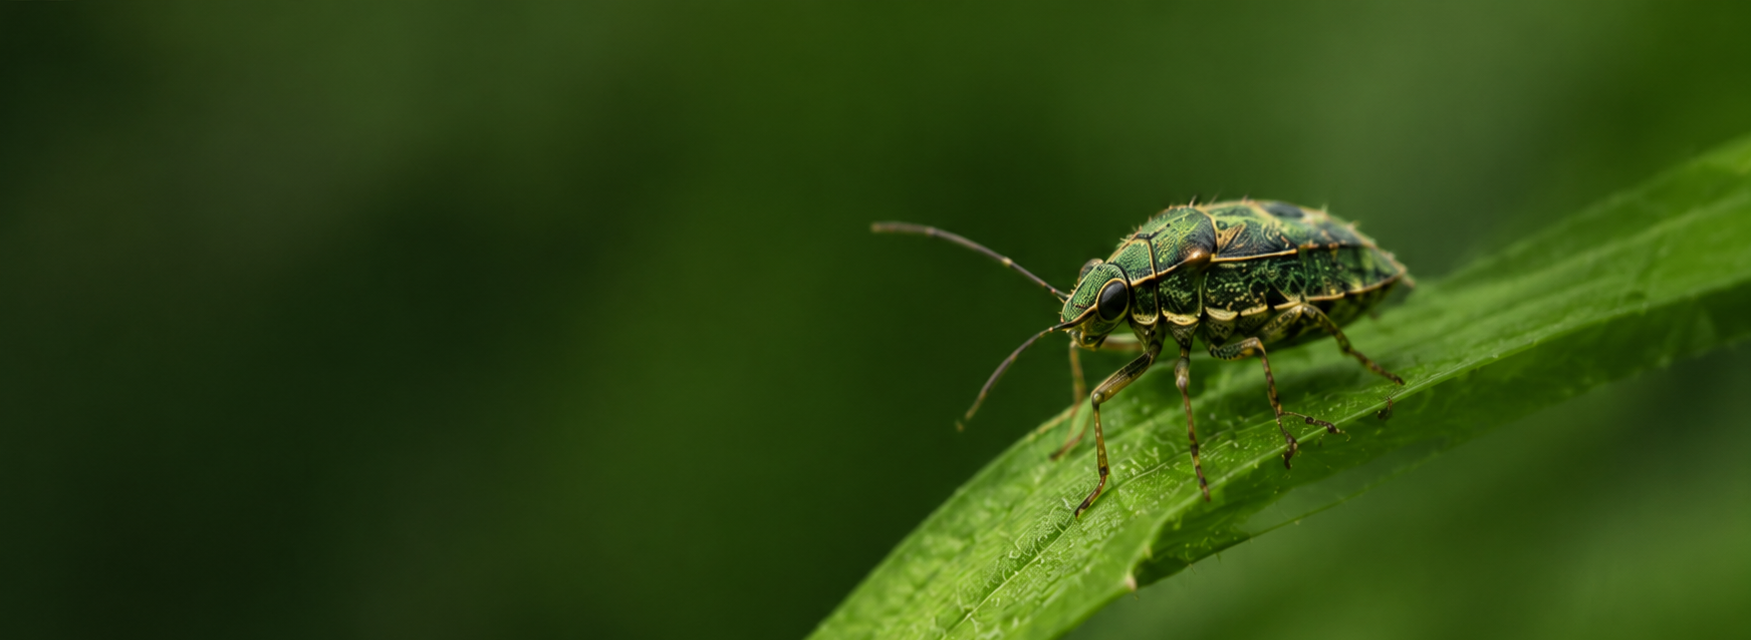
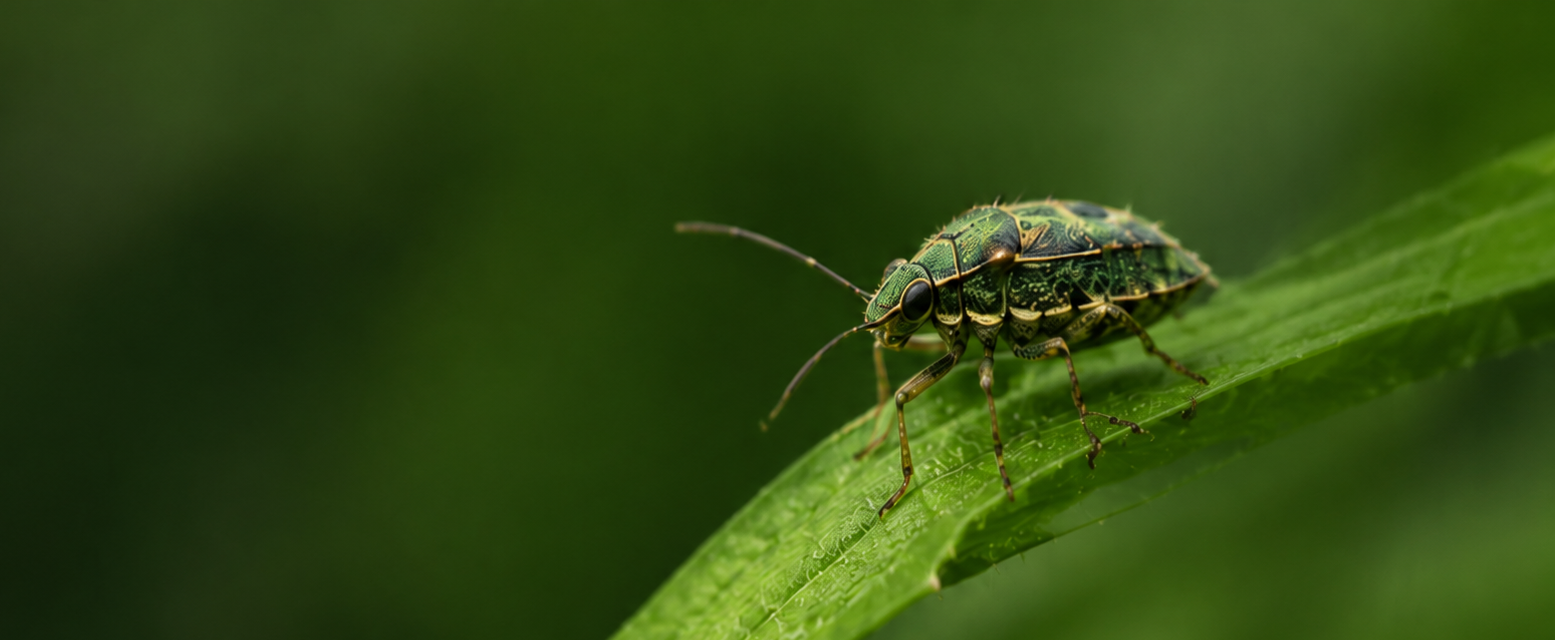
feat: add author paper template PDF and update CallForPapers component for improved layout and styling

diff --git a/src/pages/CallForPapers.jsx b/src/pages/CallForPapers.jsx
@@ -145,15 +145,31 @@ function PageContainer({ children, className = "" }) {
 
 function SectionHeading({ children }) {
   return (
-    <h2 className="flex items-center gap-3 text-[20px] font-[550] leading-tight text-[#123819] sm:text-[21px]">
+    <h2 className="flex items-center gap-3 text-[21px] font-[550] leading-tight text-[#123819] sm:text-[23px]">
       <Leaf className="h-5 w-5 shrink-0 -rotate-12 fill-[#8dbd51]/35 text-[#427a29]" />
       {children}
     </h2>
   );
 }
 
-function DarkButton({ children, to, icon: Icon, className = "" }) {
-  const styles = `group inline-flex min-h-10 items-center justify-center gap-2 rounded-md bg-[#174d1b] px-5 py-2.5 text-[12px] font-[550] text-white shadow-sm transition duration-300 hover:-translate-y-0.5 hover:bg-[#0d3914] hover:shadow-lg focus:outline-none focus:ring-2 focus:ring-[#82ad45] focus:ring-offset-2 ${className}`;
+function DarkButton({
+  children,
+  to,
+  href,
+  download,
+  icon: Icon,
+  className = "",
+}) {
+  const styles = `group inline-flex min-h-10 items-center justify-center gap-2 rounded-md bg-[#174d1b] px-5 py-2.5 text-sm font-[550] text-white shadow-sm transition duration-300 hover:-translate-y-0.5 hover:bg-[#0d3914] hover:shadow-lg focus:outline-none focus:ring-2 focus:ring-[#82ad45] focus:ring-offset-2 ${className}`;
+
+  if (href) {
+    return (
+      <a href={href} download={download} className={styles}>
+        {Icon && <Icon className="h-4 w-4" />}
+        {children}
+      </a>
+    );
+  }
 
   if (to) {
     return (
@@ -179,30 +195,30 @@ export default function CallForPapers() {
     <main className="overflow-hidden bg-white font-sans text-[#203426]">
       {/* Hero */}
       <section
-        className="relative isolate flex min-h-[395px] items-center bg-cover bg-[position:68%_center] sm:min-h-[400px] md:min-h-[450px] md:bg-center"
+        className="relative isolate flex min-h-[390px] items-center bg-cover bg-[position:66%_center] sm:min-h-[400px] md:min-h-[450px] md:bg-center"
         style={{ backgroundImage: `url(${callHeroBg})` }}
       >
-        {/* <div className="absolute inset-0 -z-10 bg-gradient-to-r from-[#082d16]/[0.98] via-[#103c1d]/80 to-[#123c16]/15 sm:via-[#103c1d]/66 lg:via-[#103c1d]/48" /> */}
+        {/* <div className="absolute inset-0 -z-10 bg-gradient-to-r from-[#082d16]/[0.99] via-[#103c1d]/90 to-[#123c16]/55 sm:via-[#103c1d]/76 sm:to-[#123c16]/30 md:via-[#103c1d]/66 md:to-[#123c16]/15 lg:via-[#103c1d]/48 lg:to-transparent" /> */}
 
-        <PageContainer className="relative flex min-h-[520px] items-center py-10 sm:min-h-[440px] lg:min-h-[310px] lg:py-8">
+        <PageContainer className="relative grid min-h-[535px] grid-cols-1 content-center gap-7 py-10 sm:min-h-[500px] sm:py-12 md:min-h-[410px] md:grid-cols-[minmax(0,1fr)_164px] md:items-center md:gap-6 md:py-9 lg:min-h-[310px] lg:grid-cols-[minmax(0,1fr)_190px] lg:gap-8 lg:py-6">
           <motion.div
             initial={{ opacity: 0, x: -28 }}
             animate={{ opacity: 1, x: 0 }}
             transition={{ duration: 0.65, ease: "easeOut" }}
-            className="w-full max-w-[700px] pb-[172px] text-white sm:pb-[150px] lg:pb-0"
+            className="w-full max-w-[660px] text-center text-white md:text-left"
           >
-            <span className="inline-flex rounded-md bg-white/15 px-3 py-1.5 text-[10px] font-[500] uppercase tracking-[0.02em] text-white backdrop-blur-sm sm:text-[11px]">
+            <span className="inline-flex mt-12 sm:mt-4 lg:mt-6 rounded-md bg-white/15 px-3 py-1.5 text-[11px] font-[550] uppercase tracking-[0.02em] text-white backdrop-blur-sm sm:text-[12px]">
               Call for Papers
             </span>
 
-            <h1 className="mt-5 text-[34px] max text-white font-semibold leading-[1.16] tracking-[-0.025em] sm:text-[36px] lg:text-[36px]">
+            <h1 className="mt-5 text-[32px] text-white font-semibold leading-[1.16] tracking-[-0.025em] min-[380px]:text-[35px] sm:text-[40px] md:text-[34px] lg:text-[36px]">
               Share Your Research.
               <br />
               Advance{" "}
               <span className="text-[#acd261]">Entomological Science.</span>
             </h1>
 
-            <p className="mt-4 max-w-[450px] text-[13px] leading-[1.75] text-white/95 sm:text-[14px]">
+            <p className="mx-auto mt-4 max-w-[470px] text-[13px] leading-[1.7] text-white/95 sm:text-[14px] sm:leading-[1.75] md:mx-0 lg:text-[15px]">
               We invite researchers, scientists, academicians and industry
               professionals to contribute their original research and innovative
               ideas to the conference.
@@ -213,22 +229,22 @@ export default function CallForPapers() {
             initial={{ opacity: 0, scale: 0.86 }}
             animate={{ opacity: 1, scale: 1 }}
             transition={{ delay: 0.2, duration: 0.55, ease: "easeOut" }}
-            className="absolute bottom-2 left-1/2 flex h-[158px] w-[158px] -translate-x-1/2 flex-col items-center justify-center rounded-full border-[6px] border-[#a8d36b] bg-[#fbfdf8] px-3 text-center shadow-[0_0_0_3px_rgba(255,255,255,.88)] sm:bottom-8 sm:h-[170px] sm:w-[170px] lg:bottom-auto lg:left-auto lg:right-8  lg:h-[180px] lg:w-[180px] lg:-translate-x-0 lg:-translate-y-1/2 xl:right-10"
+            className="mx-auto flex h-[154px] w-[154px] flex-col items-center justify-center rounded-full border-[6px] border-[#a8d36b] bg-[#fbfdf8] px-3 text-center shadow-[0_0_0_3px_rgba(255,255,255,.88)] sm:h-[164px] sm:w-[164px] md:mx-0 md:justify-self-end lg:h-[180px] lg:w-[180px]"
           >
             <CalendarDays className="mb-1 h-6 w-6 text-[#163d1d]" />
-            <h2 className="text-[12px] font-[550] text-[#143719] sm:text-[13px]">
+            <h2 className="text-[13px] font-[550] text-[#143719] sm:text-sm">
               Important Dates
             </h2>
-            <p className="mt-1 text-[10px] leading-tight text-[#3e4d41] sm:text-[11px]">
+            <p className="mt-2 text-[10px] leading-tight text-[#3e4d41] sm:text-[11px]">
               Abstract Submission
             </p>
-            <p className="mt-0.5 text-[11px] font-[550] text-[#174d1b] sm:text-[12px]">
+            <p className="mt-0.5 text-xs font-[550] text-[#174d1b] sm:text-[13px]">
               31 July 2025
             </p>
             <p className="mt-2 text-[10px] leading-tight text-[#3e4d41] sm:text-[11px]">
               Full Paper Submission
             </p>
-            <p className="mt-0.5 text-[11px] font-[550] text-[#174d1b] sm:text-[12px]">
+            <p className="mt-0.5 text-xs font-[550] text-[#174d1b] sm:text-[13px]">
               30 August 2025
             </p>
           </motion.div>
@@ -243,7 +259,7 @@ export default function CallForPapers() {
               {/* Topics */}
               <motion.section {...fadeUp}>
                 <SectionHeading>Topics of Interest</SectionHeading>
-                <p className="mt-2 text-[14px] leading-6 text-[#2c4732]">
+                <p className="mt-4 text-sm leading-6 text-[#2c4732]">
                   We welcome papers (but not limited to) in the following areas:
                 </p>
 
@@ -283,7 +299,7 @@ export default function CallForPapers() {
                         className="group flex min-h-[132px] flex-col items-center justify-center rounded-lg border border-[#edf1e8] bg-[#f4f7f0] p-5 text-center shadow-sm transition-shadow duration-300 hover:shadow-[0_12px_28px_rgba(25,67,28,.13)]"
                       >
                         <TypeIcon className="h-8 w-8 text-[#194b20] transition-transform duration-300 group-hover:scale-110" />
-                        <h3 className="mt-3 text-[14px] font-[550] text-[#17391c]">
+                        <h3 className="mt-3 text-sm font-[550] text-[#17391c]">
                           {title}
                         </h3>
                         <p className="mt-2 text-[13px] leading-5 text-[#344638]">
@@ -310,8 +326,15 @@ export default function CallForPapers() {
                   ))}
                 </ul>
 
-                <div className="mt-7 flex flex-col items-start gap-4 sm:flex-row sm:items-center">
-                  <DarkButton icon={Download}>Download Templates</DarkButton>
+                <div className="mt-7 flex flex-col items-stretch gap-4 sm:flex-row sm:items-center">
+                  <a
+                    href={`${import.meta.env.BASE_URL}download/entomology-author-paper-template.pdf`}
+                    download="entomology-author-paper-template.pdf"
+                    className="group inline-flex w-full items-center justify-center gap-2 rounded-md bg-[#174d1b] px-5 py-2.5 text-sm font-[550] text-white transition duration-300 hover:-translate-y-0.5 hover:bg-[#0d3914] hover:shadow-lg sm:w-auto"
+                  >
+                    <Download className="h-4 w-4" />
+                    Download Templates
+                  </a>
                   <p className="text-[13px] leading-5 text-[#35483a]">
                     For detailed author instructions, visit the{" "}
                     <Link
@@ -334,7 +357,7 @@ export default function CallForPapers() {
               >
                 <div className="mb-5 flex items-center gap-3">
                   <CalendarDays className="h-6 w-6 text-[#1d5424]" />
-                  <h2 className="text-[18px] font-[550] text-[#153a1b]">
+                  <h2 className="text-lg font-[550] text-[#153a1b]">
                     Important Dates
                   </h2>
                 </div>
@@ -346,7 +369,7 @@ export default function CallForPapers() {
                         <DateIcon className="h-4 w-4" />
                       </span>
                       <div>
-                        <p className="text-[12.5px] leading-4 text-[#4b5d50]">
+                        <p className="text-[12px] leading-4 text-[#4b5d50]">
                           {label}
                         </p>
                         <p className="mt-0.5 text-[13px] font-[550] leading-5 text-[#19451e]">
@@ -362,10 +385,8 @@ export default function CallForPapers() {
                 {...fadeUp}
                 className="rounded-xl bg-gradient-to-br from-[#123f1a] to-[#235b22] p-6 text-white shadow-[0_10px_28px_rgba(14,60,21,.15)] transition-shadow duration-300 hover:shadow-[0_14px_32px_rgba(14,60,21,.25)]"
               >
-                <h2 className="text-[18px] text-white font-[550]">
-                  Why Submit?
-                </h2>
-                <ul className="mt-3 space-y-2">
+                <h2 className="text-lg text-white font-[550]">Why Submit?</h2>
+                <ul className="mt-5 space-y-4">
                   {whySubmit.map((reason) => (
                     <li
                       key={reason}
@@ -384,7 +405,7 @@ export default function CallForPapers() {
               >
                 <div className="flex items-center gap-3">
                   <Send className="h-7 w-7 -rotate-6 text-[#225623]" />
-                  <h2 className="text-[18px] font-[550] text-[#153a1b]">
+                  <h2 className="text-lg font-[550] text-[#153a1b]">
                     Submit Your Paper
                   </h2>
                 </div>
@@ -410,12 +431,12 @@ export default function CallForPapers() {
         <PageContainer>
           <motion.div
             {...fadeUp}
-            className="relative isolate flex min-h-[215px] items-center overflow-hidden rounded-lg bg-[#f5f7ef] bg-cover bg-[position:23%_center] px-5 py-4 shadow-sm sm:min-h-[176px] sm:bg-center sm:px-8 lg:min-h-[164px] lg:px-10"
+            className="relative isolate flex min-h-[290px] items-end overflow-hidden rounded-lg bg-[#f5f7ef] bg-cover bg-[position:16%_top] px-5 py-6 shadow-sm sm:min-h-[190px] sm:items-center sm:bg-center sm:px-8 lg:min-h-[164px] lg:px-10"
             style={{ backgroundImage: `url(${callCtaBg})` }}
           >
-            <div className="absolute inset-0 -z-10 bg-gradient-to-r from-white/0 via-[#f5f7ef]/55 to-[#f5f7ef]/95 sm:hidden" />
-            <div className="ml-auto w-[68%] max-w-[570px] sm:w-[58%] md:w-[56%] lg:mr-[9%] lg:w-[53%]">
-              <h2 className="text-[16px] font-[550] leading-[1.35] text-[#17371d] sm:text-[17px] lg:text-[18px]">
+            <div className="absolute inset-0 -z-10 bg-gradient-to-b from-transparent via-[#f5f7ef]/55 to-[#f5f7ef] sm:bg-gradient-to-r sm:from-transparent sm:via-[#f5f7ef]/35 sm:to-[#f5f7ef]/95" />
+            <div className="w-full max-w-[570px] text-center sm:ml-auto sm:w-[58%] sm:text-left md:w-[56%] lg:mr-[9%] lg:w-[53%]">
+              <h2 className="text-[17px] font-[550] leading-[1.4] text-[#17371d] sm:text-[20px] lg:text-[22px]">
                 Join us in advancing the science of entomology
                 <br className="hidden sm:block" /> for a sustainable future.
               </h2>

diff --git a/src/pages/About.jsx b/src/pages/About.jsx
@@ -170,7 +170,7 @@ export default function About() {
           >
             <nav
               aria-label="Breadcrumb"
-              className="mb-5 mt-12 sm:mt-4 lg:mt-10 flex items-center gap-2 text-[13px] sm:text-[12px]"
+              className="mb-5 mt-20 sm:mt-6 lg:mt-10 flex items-center gap-2 text-[13px] sm:text-[12px]"
             >
               <Link to="/" className="transition hover:text-[#b9db74]">
                 Home
@@ -181,7 +181,7 @@ export default function About() {
               <span className="font-medium">About the Conference</span>
             </nav>
 
-            <h1 className="text-[36px] text-white font-[600] leading-tight tracking-[-0.02em] sm:text-[38px]">
+            <h1 className="text-[34px] text-white font-[600] leading-tight tracking-[-0.02em] lg:text-[36px] sm:text-[36px]">
               About the Conference
             </h1>
 
@@ -191,7 +191,7 @@ export default function About() {
               <span className="h-px w-16 bg-[#6e923e]" />
             </div>
 
-            <p className="max-w-[440px] text-[16px] font-[550] leading-6 text-[#a9d563] sm:text-[17px] sm:leading-6">
+            <p className="max-w-[440px] text-[15px] font-[550] leading-6 text-[#a9d563] sm:text-[16px] sm:leading-6">
               Exploring. Understanding. Preserving.
               <br />
               Insects, Ecosystems, and Our Future.
@@ -214,12 +214,12 @@ export default function About() {
             <motion.article {...fadeUp}>
               <div className="flex items-center gap-3">
                 <Leaf className="h-5 w-5 fill-[#2f6b28] text-[#2f6b28]" />
-                <h2 className="text-[20px] font-[550] text-[#173b1c] sm:text-[22px]">
+                <h2 className="text-[20px] font-[550] text-[#173b1c] sm:text-[21px]">
                   About the Conference
                 </h2>
               </div>
 
-              <div className="mt-4 space-y-3 text-[14px] leading-[1.7] text-[#252b25]">
+              <div className="mt-4 space-y-3 text-[13px] leading-[1.7] text-[#252b25]">
                 <p>
                   Entomology is central to understanding biodiversity, ensuring
                   food security, protecting public health, and maintaining
@@ -268,7 +268,7 @@ export default function About() {
                       <p className="text-[15px] font-semibold leading-tight text-[#17291a] sm:text-[16px]">
                         {value}
                       </p>
-                      <p className="mt-1 text-[11px] leading-tight text-[#303630]">
+                      <p className="mt-1 text-[12px] leading-tight text-[#303630]">
                         {label}
                       </p>
                     </div>
